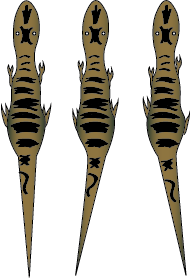
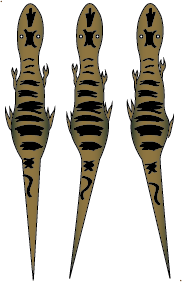
player can jiveeeeeeee

diff --git a/public_html/player.js b/public_html/player.js
@@ -34,6 +34,7 @@ function player(game, image, aImage, attackSound)
     dino = game.add.sprite(x, y, image);
     swipe = game.add.sprite(250, 250, aImage);
     swipe.animations.add('attackSwipe');
+    dino.animations.add('walk');
     game.physics.p2.enable(dino, false);
     game.physics.p2.enable(swipe, false); // 'true' to show debug box for attack
     game.physics.enable(dino, Phaser.Physics.ARCADE);
@@ -110,6 +111,7 @@ function player(game, image, aImage, attackSound)
                 upFront = false;
                 downFront = false;
                 rightFront = false;
+                dino.animations.play('walk', 5, true);
                 dino.body.angle = -90;
                 dino.angle = -90;
                 dino.body.moveLeft(playerSpeed);
@@ -121,6 +123,7 @@ function player(game, image, aImage, attackSound)
                 upFront = false;
                 downFront = false;
                 rightFront = true;
+                dino.animations.play('walk', 5, true);
                 dino.body.angle = 90;
                 dino.angle = 90;
                 dino.body.moveRight(playerSpeed);
@@ -132,6 +135,7 @@ function player(game, image, aImage, attackSound)
                 upFront = true;
                 downFront = false;
                 rightFront = false;
+                dino.animations.play('walk', 5, true);
                 dino.body.angle = 0;
                 dino.angle = 0;
                 dino.body.moveUp(playerSpeed);
@@ -143,6 +147,7 @@ function player(game, image, aImage, attackSound)
                 upFront = false;
                 downFront = true;
                 rightFront = false;
+                dino.animations.play('walk', 5, true);
                 dino.body.angle = 180;
                 dino.angle = 180;
                 dino.body.moveDown(playerSpeed);
@@ -222,13 +227,17 @@ function player(game, image, aImage, attackSound)
                     }
                 }
                 swipe.animations.stop(true);
-                swipe.animations.play('attackSwipe', 10, true);
+                swipe.animations.play('attackSwipe', 10, false);
                 aSound.play();
                 isAttacking = true;
                 game.time.events.add(600, attackAgain, this);
                 game.time.events.add(300, swipe.kill, swipe);
             }
-            
+            if(leftKey.isUp && rightKey.isUp && upKey.isUp && downKey.isUp)
+            {
+                dino.animations.stop();
+            }
+                
         }
         if (playerXP > levelingXP){ // Leveling up the dinosaur
             console.log("Level up!");

diff --git a/public_html/preloader.js b/public_html/preloader.js
@@ -5,7 +5,7 @@
  */
 var preloader = {
     preload: function() {
-            game.load.image('dinoSelf', 'assets/Dino.png');
+            game.load.spritesheet('dinoSelf', 'assets/Dinos.png', 60, 280, 3);
             game.load.image('dinoTri', 'assets/enemy-tri.png');
             game.load.image('dinoAnk', 'assets/enemy-ank.png');
             game.load.image('dinoSteg', 'assets/enemy-steg.png');
